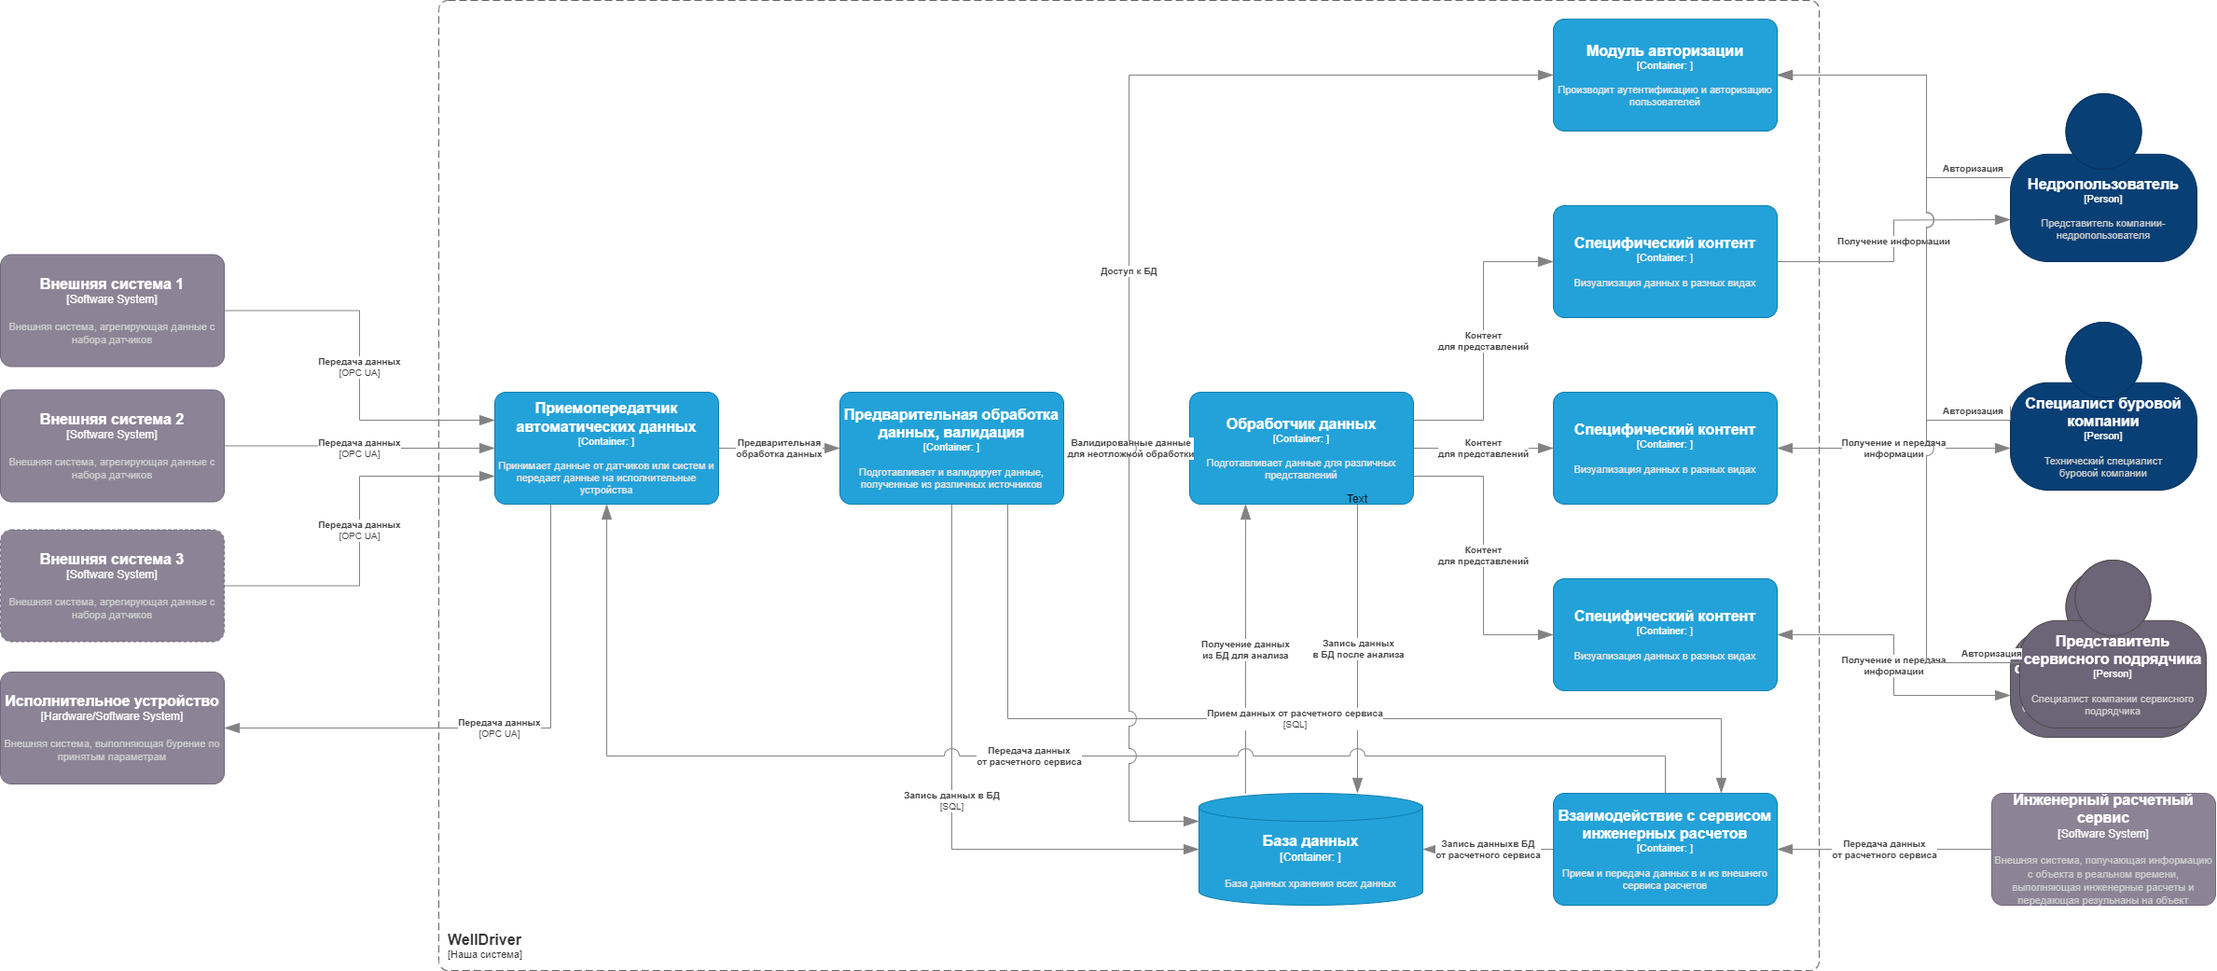
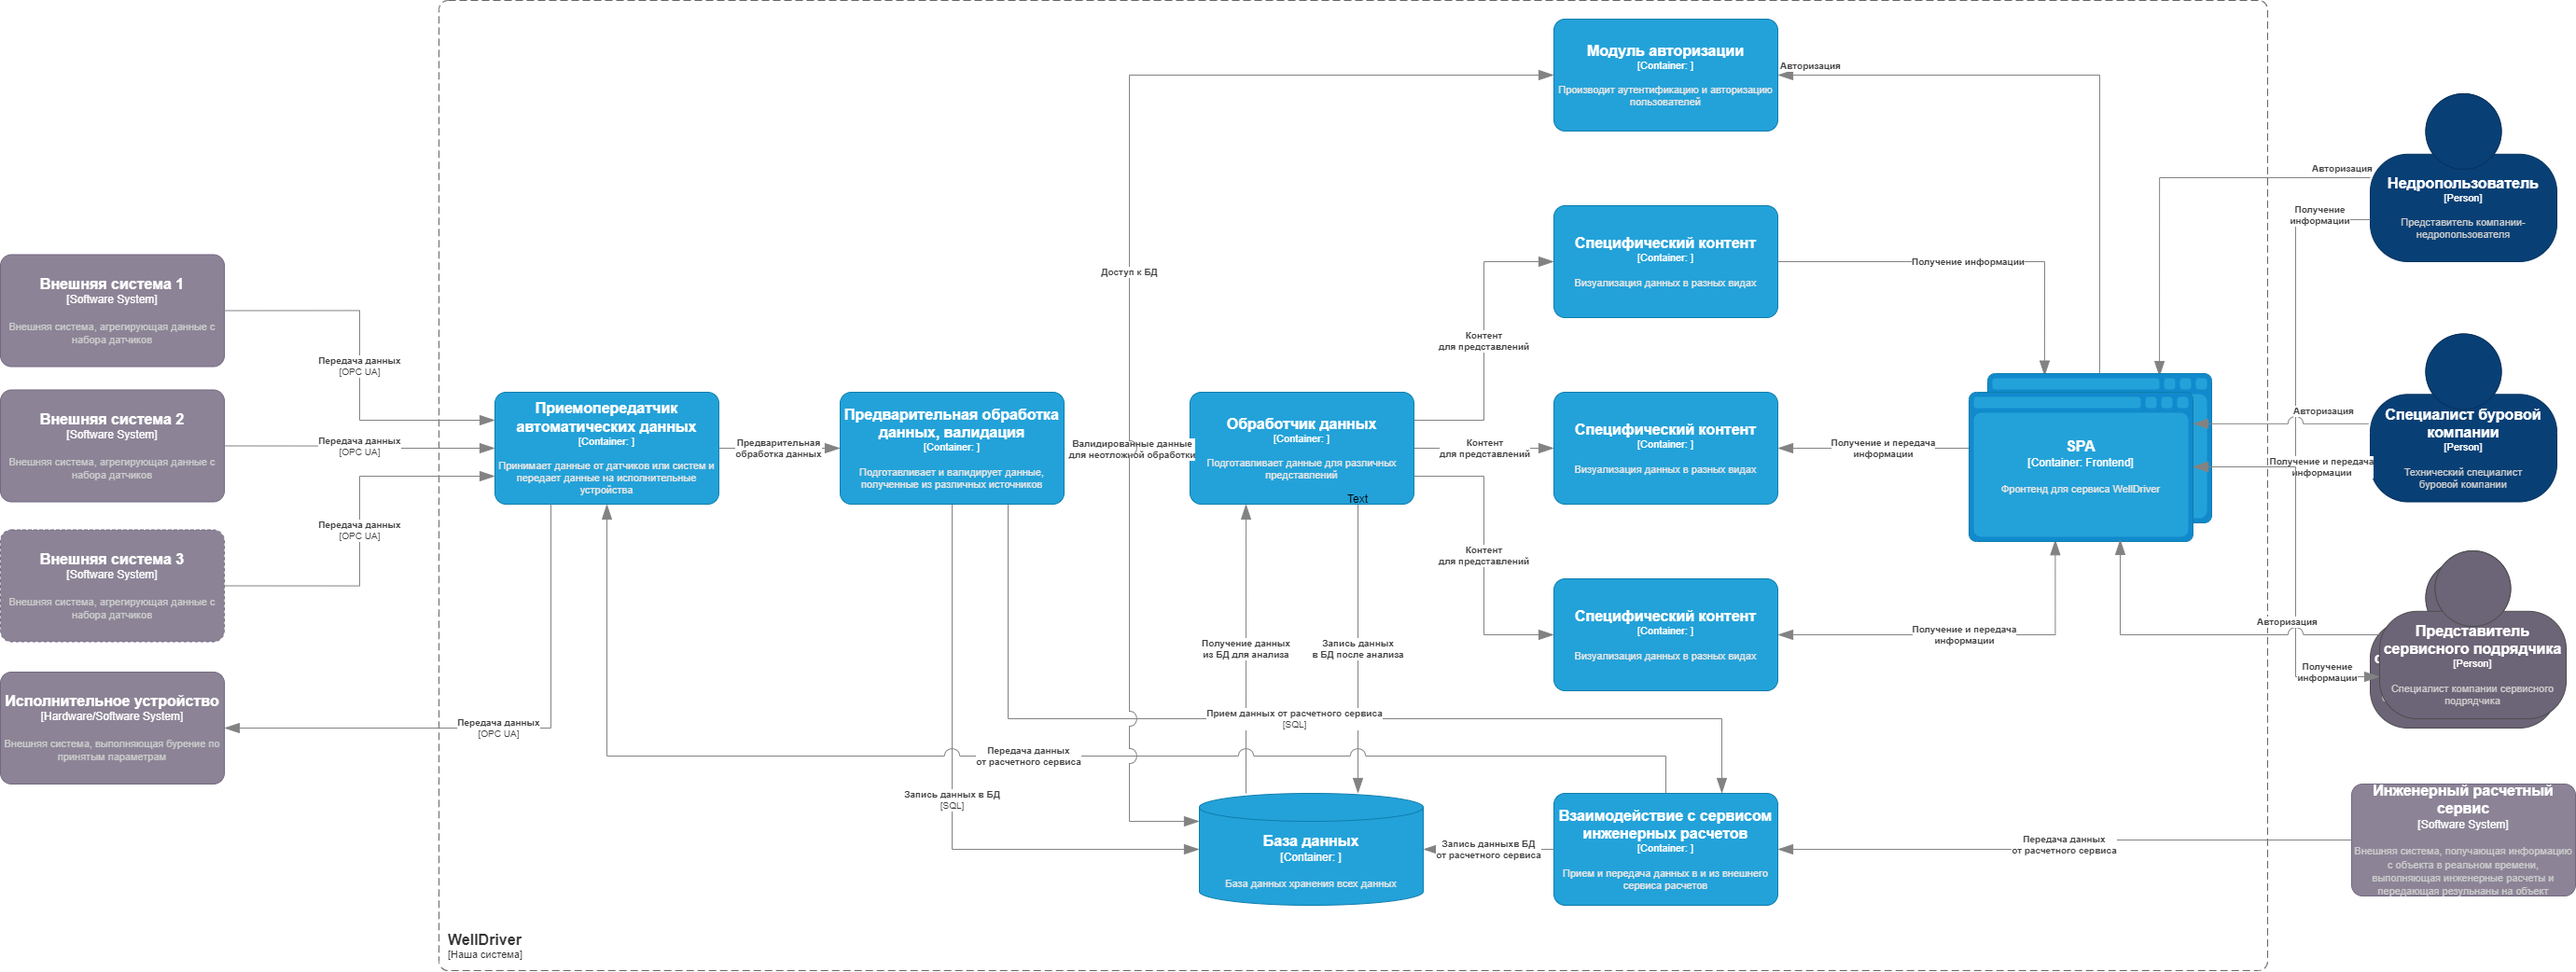
change ADR2 schema

diff --git a/ADR2.md b/ADR2.md
@@ -24,6 +24,7 @@
 * Модули представления выводят информацию в различных видах, в зависимости от роли подключенных участников.
 * Также модуль обработки производит анализ пакетных данных, например, отчетов.
 * Компонент взаимодействия с внешним сервисом инженерных расчетов передает realtime данные во внешний сервис и принимает данные из него.
+* Пользователи общаются с системой по WEB интерфейсу через сервис фронтенда SPA.
 * Модуль авторизации производит аутентификацию и автоизацию пользователей по ролям.
 
 
